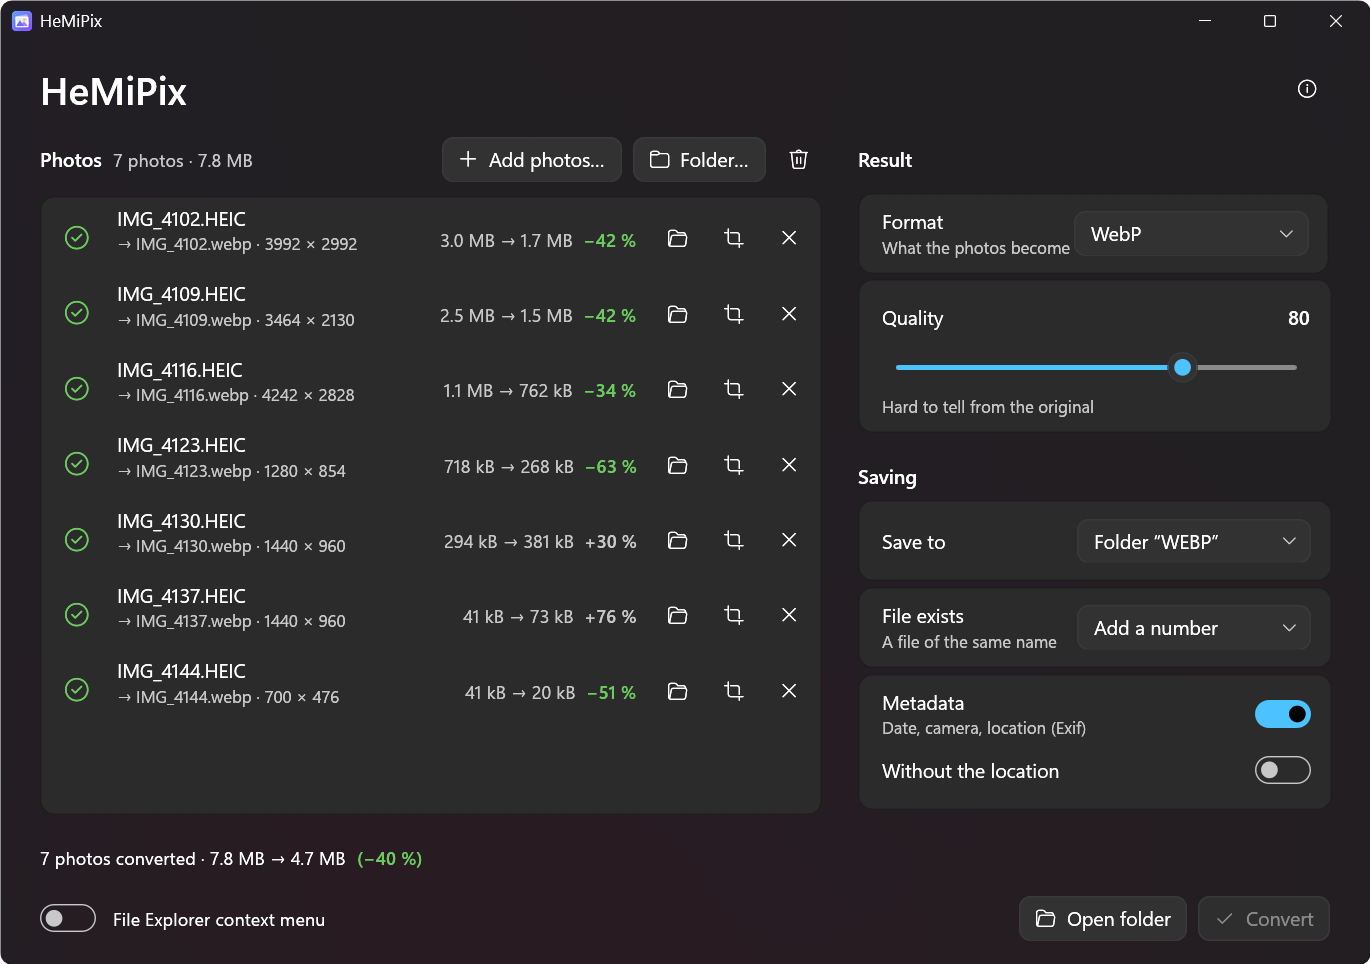
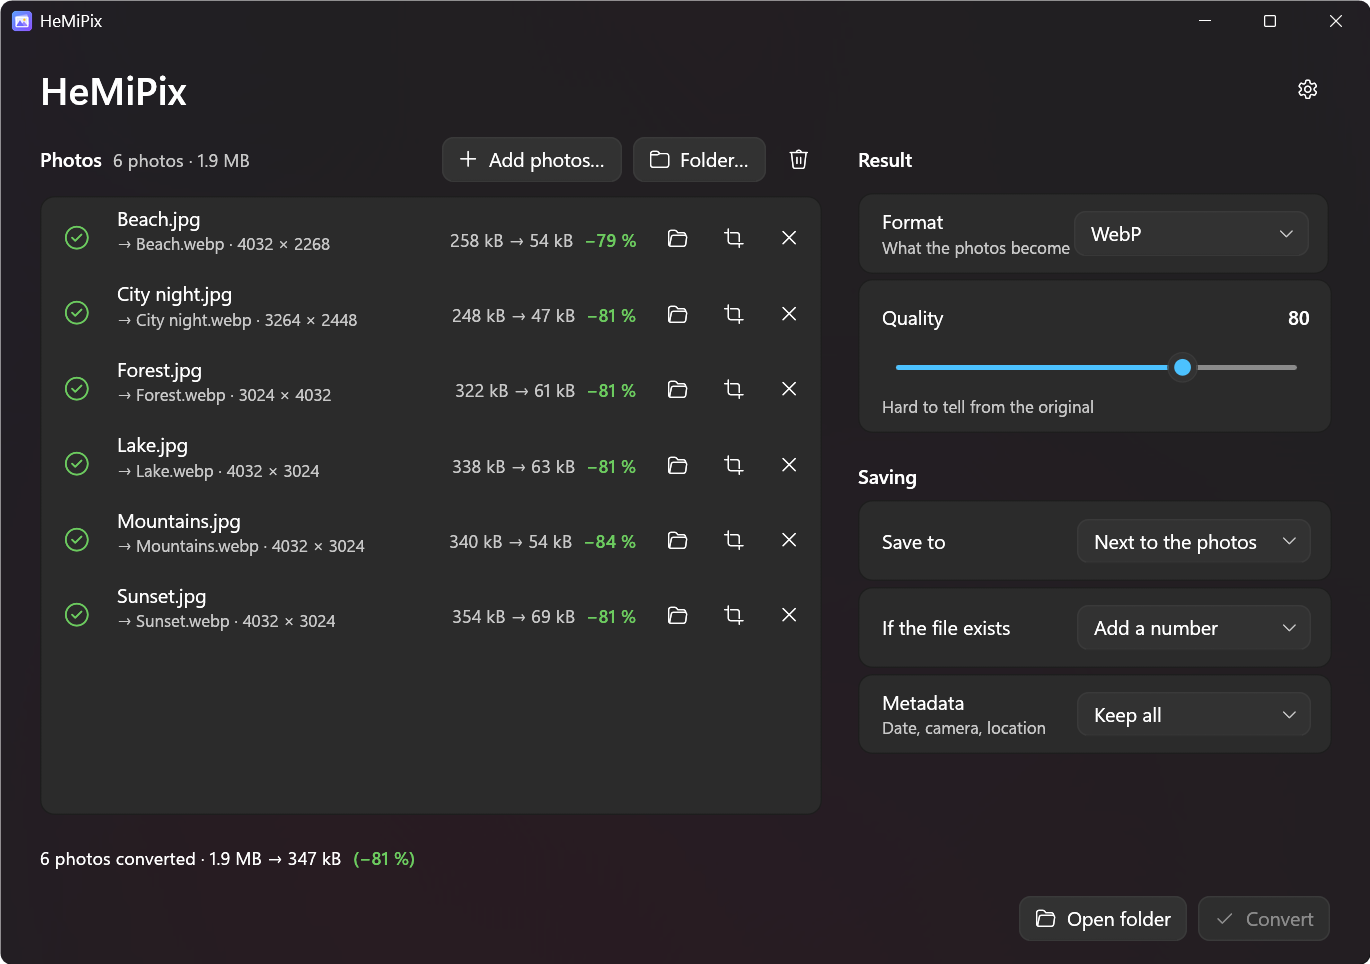
HeMiPix Beta 1.1.1
Settings in place of About (the gear) with the File Explorer switch; the links side by side; no unused code.

diff --git a/src/app.rs b/src/app.rs
@@ -423,7 +423,7 @@ impl HeMiPixApp {
                 ui.add_space(4.0);
             }
             let title = if self.about {
-                tr("About", "O aplikaci")
+                tr("Settings", "Nastavení")
             } else if self.editor.is_some() {
                 tr("Crop", "Oříznout")
             } else {
@@ -452,7 +452,7 @@ impl HeMiPixApp {
                         }
                     });
                 } else if !self.about
-                    && Btn::new("").icon(glyph::INFO).subtle().tip(tr("About", "O aplikaci")).show(ui, &p).clicked()
+                    && Btn::new("").icon(glyph::SETTINGS).subtle().tip(tr("Settings", "Nastavení")).show(ui, &p).clicked()
                 {
                     acts.push(Action::About(true));
                 }
@@ -462,8 +462,29 @@ impl HeMiPixApp {
 
     fn about_page(&self, ui: &mut egui::Ui, acts: &mut Vec<Action>) {
         let p = self.p;
-        section(ui, &p, "HeMiPix");
-        ui.spacing_mut().item_spacing.y = 4.0;
+        // what is set once (the switch was at the bottom of the window): the item in the menu of File Explorer
+        section(ui, &p, tr("File Explorer", "Průzkumník"));
+        card(ui, &p, |ui| {
+            ui.horizontal(|ui| {
+                ui.set_min_height(52.0);
+                let w = ui.available_width() - 150.0;
+                ui.vertical(|ui| {
+                    ui.set_max_width(w);
+                    ui.spacing_mut().item_spacing.y = 2.0;
+                    ui.label(RichText::new(tr("Context menu", "Kontextová nabídka")).size(14.0).color(p.text));
+                    let detail = tr("“Convert with HeMiPix” in the right-click menu of HEIC photos and folders (in Windows 11 under “Show more options”).", "„Převést v HeMiPixu“ v nabídce po kliknutí pravým tlačítkem na fotku HEIC nebo složku (ve Windows 11 pod „Zobrazit další možnosti“).");
+                    ui.add(egui::Label::new(RichText::new(detail).size(12.0).color(p.text2)).wrap());
+                });
+                ui.with_layout(Layout::right_to_left(Align::Center), |ui| {
+                    ui.label(RichText::new(if self.menu_on { tr("On", "Zapnuto") } else { tr("Off", "Vypnuto") }).size(14.0).color(p.text));
+                    if toggle(ui, &p, self.menu_on).clicked() {
+                        acts.push(Action::ToggleMenu);
+                    }
+                });
+            });
+        });
+        ui.add_space(14.0);
+        section(ui, &p, tr("About", "O aplikaci"));        ui.spacing_mut().item_spacing.y = 4.0;
         let value = |ui: &mut egui::Ui, label: &str, value: &str| {
             card(ui, &p, |ui| {
                 row_layout(ui, 44.0, |ui| {
@@ -477,27 +498,25 @@ impl HeMiPixApp {
         value(ui, tr("Author", "Autor"), "Richard Hemala");
         value(ui, tr("Version", "Verze"), &format!("Beta {}", env!("CARGO_PKG_VERSION")));
         value(ui, tr("Build date", "Datum sestavení"), &i18n::build_date());
-        // as the About page of HeMiDock: a title and the button, no descriptions
-        let open = |ui: &mut egui::Ui, title: &str, tip: &str, act: Action, acts: &mut Vec<Action>| {
-            card(ui, &p, |ui| {
-                row_layout(ui, 44.0, |ui| {
-                    ui.label(RichText::new(title).size(14.0).color(p.text));
-                    ui.with_layout(Layout::right_to_left(Align::Center), |ui| {
-                        if Btn::new(tr("Open", "Otevřít")).tip(tip).show(ui, &p).clicked() {
-                            acts.push(act);
-                        }
-                    });
-                });
-            });
-        };
-        open(ui, tr("Project on GitHub", "Projekt na GitHubu"), PROJECT, Action::Open(format!("https://{PROJECT}")), acts);
-        open(ui, tr("What's new", "Co je nového"), RELEASES, Action::Open(format!("https://{RELEASES}")), acts);
+        // the links side by side in one card (they wrap when the window is narrow)
+        let mut links: Vec<(&str, &str, Action)> = vec![
+            (tr("Project on GitHub", "Projekt na GitHubu"), PROJECT, Action::Open(format!("https://{PROJECT}"))),
+            (tr("What's new", "Co je nového"), RELEASES, Action::Open(format!("https://{RELEASES}"))),
+            (tr("Report a problem", "Nahlásit problém"), CONTACT, Action::Open(format!("https://{CONTACT}"))),
+            (tr("Licences", "Licence"), "", Action::OpenLicences),
+        ];
         // HeMi Launcher on this PC: the updates are its job
         if crate::launcher::exe().is_some() {
-            open(ui, tr("Updates in HeMi Launcher", "Aktualizace v HeMi Launcheru"), "HeMi Launcher", Action::Launcher, acts);
+            links.insert(2, ("HeMi Launcher", tr("Updates", "Aktualizace"), Action::Launcher));
         }
-        open(ui, tr("Report a problem", "Nahlásit problém"), CONTACT, Action::Open(format!("https://{CONTACT}")), acts);
-        open(ui, tr("Licences", "Licence"), "", Action::OpenLicences, acts);
+        ui.add_space(10.0);
+        section(ui, &p, tr("Links", "Odkazy"));
+        let items: Vec<(&str, &str)> = links.iter().map(|(t, tip, _)| (*t, *tip)).collect();
+        if let Some(i) = card(ui, &p, |ui| crate::widgets::button_row(ui, &p, &items))
+            && let Some((_, _, act)) = links.into_iter().nth(i)
+        {
+            acts.push(act);
+        }
     }
     fn list(&mut self, ui: &mut egui::Ui, acts: &mut Vec<Action>) {
         let p = self.p;
@@ -836,15 +855,6 @@ impl HeMiPixApp {
         }
         ui.horizontal(|ui| {
             ui.set_min_height(32.0);
-            let tip = tr(
-                "Adds “Convert with HeMiPix” to the right-click menu of HEIC photos and folders. In Windows 11 it is under “Show more options”.",
-                "Přidá „Převést v HeMiPixu“ do nabídky po kliknutí pravým tlačítkem na fotku HEIC nebo složku. Ve Windows 11 je pod „Zobrazit další možnosti“.",
-            );
-            if toggle(ui, &p, self.menu_on).on_hover_text(tip).clicked() {
-                acts.push(Action::ToggleMenu);
-            }
-            ui.add_space(4.0);
-            ui.label(RichText::new(tr("File Explorer context menu", "Kontextová nabídka Průzkumníka")).size(13.0).color(p.text)).on_hover_text(tip);
             ui.with_layout(Layout::right_to_left(Align::Center), |ui| {
                 if self.run.is_some() {
                     if Btn::new(tr("Stop", "Zastavit")).icon(glyph::STOP).show(ui, &p).clicked() {

diff --git a/src/widgets.rs b/src/widgets.rs
@@ -1,5 +1,4 @@
 //! The controls of HeMiDock (WinUI 3) painted in egui – the same as in HeMiUnlocker and HeMiPad.
-#![allow(dead_code)]
 
 use crate::theme::{self, Palette, glyph};
 use eframe::egui::{self, Align, Align2, Color32, Layout, Margin, RichText, Sense, Stroke, StrokeKind, pos2, vec2};
@@ -337,4 +336,40 @@ pub fn checkbox(ui: &mut egui::Ui, p: &Palette, on: bool, text: &str) -> egui::R
     }
     painter.galley(pos2(rect.left() + 28.0, rect.top()), galley, p.text);
     resp
+}
+/// Buttons of the same width side by side, filling the row (the links of About); in a narrow window two or more rows.
+/// Returns the index of the clicked one.
+pub fn button_row(ui: &mut egui::Ui, p: &Palette, items: &[(&str, &str)]) -> Option<usize> {
+    let gap = 8.0;
+    let w = ui.available_width();
+    let mut cols = items.len().max(1);
+    // as many in a row as fit with the longest text whole
+    let longest = items
+        .iter()
+        .map(|(t, _)| ui.painter().layout_no_wrap(t.to_string(), crate::theme::body(14.0), p.text).size().x)
+        .fold(0.0_f32, f32::max);
+    while cols > 1 && (w - gap * (cols - 1) as f32) / cols as f32 <= longest + 28.0 {
+        cols -= 1;
+    }
+    // the rows as even as they can be (5 in 3 + 2, not 4 + 1)
+    let rows = items.len().div_ceil(cols.max(1));
+    let cols = items.len().div_ceil(rows.max(1)).max(1);
+    let bw = (w - gap * (cols - 1) as f32) / cols as f32;
+    let mut clicked = None;
+    for (r, chunk) in items.chunks(cols).enumerate() {
+        ui.horizontal(|ui| {
+            ui.spacing_mut().item_spacing.x = gap;
+            for (c, (text, tip)) in chunk.iter().enumerate() {
+                let b = Btn::new(text).width(bw);
+                let b = if tip.is_empty() { b } else { b.tip(tip) };
+                if b.show(ui, p).clicked() {
+                    clicked = Some(r * cols + c);
+                }
+            }
+        });
+        if r + 1 < items.len().div_ceil(cols) {
+            ui.add_space(gap);
+        }
+    }
+    clicked
 }

diff --git a/src/theme.rs b/src/theme.rs
@@ -35,11 +35,11 @@ pub fn icon(size: f32) -> FontId {
 
 /// Segoe Fluent Icons glyphs.
 pub mod glyph {
+    pub const SETTINGS: char = '\u{E713}';
     pub const FOLDER: char = '\u{E8B7}';
     pub const OPEN_FOLDER: char = '\u{E838}';
     pub const CLOSE: char = '\u{E711}';
     pub const COMPLETED: char = '\u{E930}';
-    pub const INFO: char = '\u{E946}';
     pub const BACK: char = '\u{E72B}';
     pub const WARNING: char = '\u{E7BA}';
     pub const ERROR: char = '\u{EA39}';

diff --git a/README.md b/README.md
@@ -33,14 +33,14 @@ Extensions** from the Microsoft Store (most PCs have them; the installer – and
 - **Crop** any photo of the list: a preview with a frame to drag by its corners and edges or to move, free or in a
   fixed shape (1:1, 4:3, 3:2, 16:9 – turned for upright photos), the size in pixels shown; ‹ › go through the photos.
 - **Upright**: photos come out turned the right way, also JPGs with an Exif orientation.
-- **Metadata** (Exif: date taken, camera, location) is kept in JPG, PNG and WebP – or kept **without the location**;
+- **Metadata** (Exif: date taken, camera, location) is kept in JPG, PNG and WebP – or kept **without the location**, or removed (one choice);
   the colour profile (Display P3 of iPhones) stays too; the file date of the original stays, so the photos sort as
   before.
 - **Where to**: next to the photos, into a folder named by the format (“JPG”, “PNG” …) beside them, or into one chosen
   folder; an existing file gets a number, is replaced or the photo is skipped. From a folder, the files that already
   are of the chosen format are left out.
 - **Mica** of Windows 11 behind the window, light and dark as Windows (or HeMiDock).
-- **File Explorer item** “Convert with HeMiPix” for HEIC photos and folders – a switch in the window, off by default,
+- **File Explorer item** “Convert with HeMiPix” for HEIC photos and folders – a switch in Settings (the gear), off by default,
   written only for the current user.
 
 Its settings are in `%AppData%\HeMi\HeMiPix\settings.ini`.
